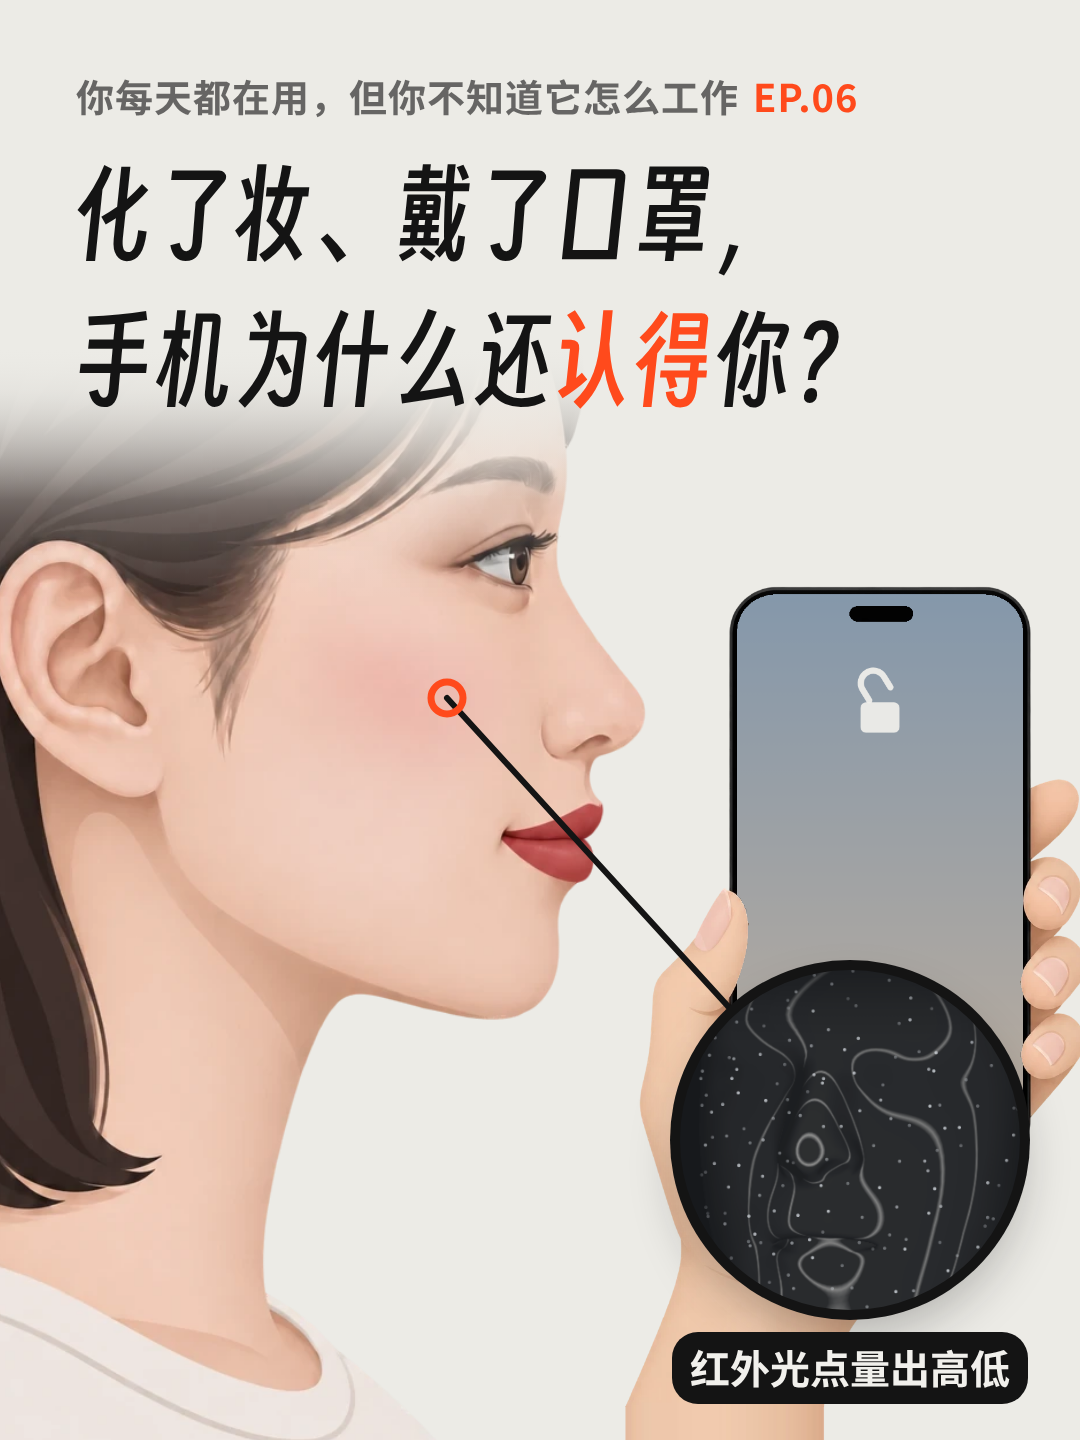
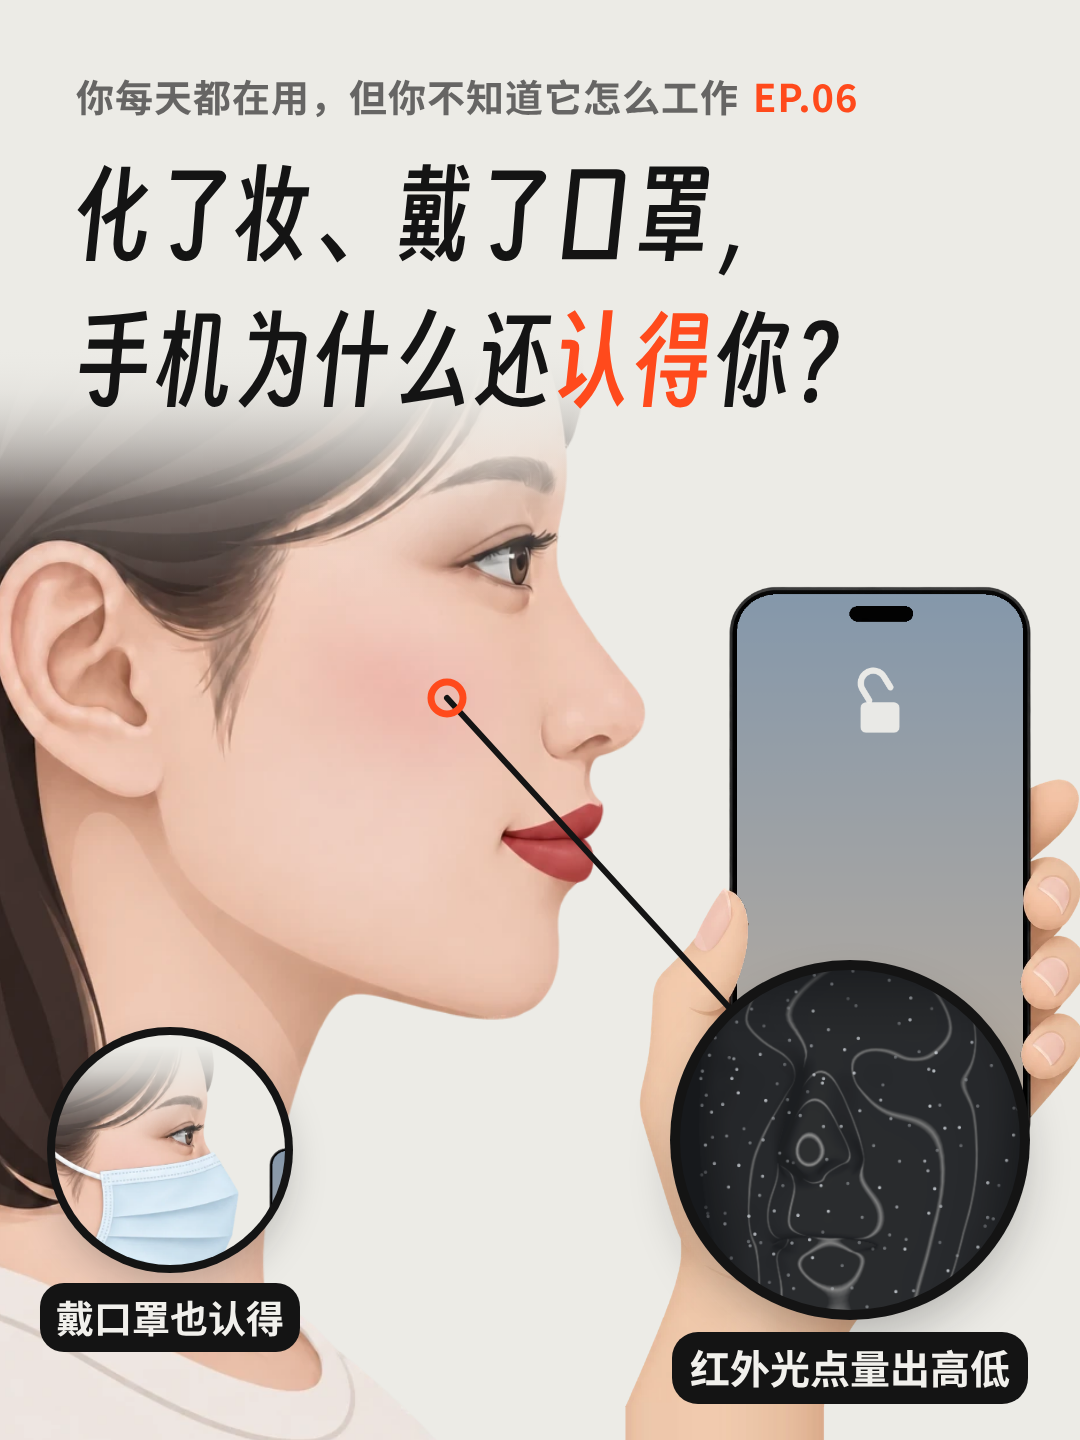
EP.06: covers with a mask inset, publish.md for v5.3
Claude-Session: https://claude.ai/code/session_017cWy2D4nN7GnkyatDVjr7d

Changed region(s): [[0.0306, 0.6875, 0.275, 0.9375]]

diff --git a/templates/weishenme/covers/ep06-douyin.html b/templates/weishenme/covers/ep06-douyin.html
@@ -13,6 +13,10 @@
     background: #17191C url("art/ep06-inset.png") no-repeat; background-size: 568.421052631579px 1010.5263157894736px; background-position: -84.21052631578947px -336.84210526315786px;
     box-shadow: 0 0 0 10px #141414, 0 24px 50px rgba(20,20,20,0.28); }
   svg { position: absolute; left: 0; top: 0; }
+  .inset2 { display: block; position: absolute; left: 70px; top: 1250px; width: 280px; height: 280px; border-radius: 50%;
+    background: #ECEBE6 url("art/ep06-mask.png") no-repeat; background-size: 504px 896px; background-position: -79.33333333333333px -233.33333333333334px;
+    box-shadow: 0 0 0 8px #141414, 0 18px 40px rgba(20,20,20,0.25); }
+  .itag2 { position: absolute; left: 210px; top: 1548px; transform: translateX(-50%); font: 700 38px "NotoSC"; color: #F1F0EC; background: #141414; padding: 6px 16px 8px; border-radius: 24px; white-space: nowrap; }
   .itag { position: absolute; left: 840px; top: 1572px; transform: translateX(-50%); font: 700 40px "NotoSC"; color: #F1F0EC; background: #141414; padding: 6px 18px 8px; border-radius: 26px; white-space: nowrap; }
   </style></head><body><div id="cv">
   <div class="hero"></div>
@@ -23,5 +27,5 @@
   <div class="ser">你每天都在用，但你不知道它怎么工作<i>EP.06</i></div>
   <div class="t" style="top:362.56px">化了妆、戴了口罩，</div>
   <div class="t" style="top:512.56px">手机为什么还<b>认得</b>你？</div>
-  <div class="inset"></div><div class="itag">红外光点量出高低</div>
+  <div class="inset"></div><div class="itag">红外光点量出高低</div><div class="inset2"></div><div class="itag2">戴口罩也认得</div>
   </div></body></html>

diff --git a/templates/weishenme/covers/ep06-xiaohongshu.html b/templates/weishenme/covers/ep06-xiaohongshu.html
@@ -13,6 +13,10 @@
     background: #17191C url("art/ep06-inset.png") no-repeat; background-size: 483.1578947368421px 858.9473684210526px; background-position: -71.57894736842105px -286.3157894736842px;
     box-shadow: 0 0 0 10px #141414, 0 24px 50px rgba(20,20,20,0.28); }
   svg { position: absolute; left: 0; top: 0; }
+  .inset2 { display: block; position: absolute; left: 55px; top: 1035px; width: 230px; height: 230px; border-radius: 50%;
+    background: #ECEBE6 url("art/ep06-mask.png") no-repeat; background-size: 414px 736px; background-position: -65.16666666666667px -191.66666666666666px;
+    box-shadow: 0 0 0 8px #141414, 0 18px 40px rgba(20,20,20,0.25); }
+  .itag2 { position: absolute; left: 170px; top: 1283px; transform: translateX(-50%); font: 700 38px "NotoSC"; color: #F1F0EC; background: #141414; padding: 6px 16px 8px; border-radius: 24px; white-space: nowrap; }
   .itag { position: absolute; left: 850px; top: 1332px; transform: translateX(-50%); font: 700 40px "NotoSC"; color: #F1F0EC; background: #141414; padding: 6px 18px 8px; border-radius: 26px; white-space: nowrap; }
   </style></head><body><div id="cv">
   <div class="hero"></div>
@@ -23,5 +27,5 @@
   <div class="ser">你每天都在用，但你不知道它怎么工作<i>EP.06</i></div>
   <div class="t" style="top:166px">化了妆、戴了口罩，</div>
   <div class="t" style="top:312px">手机为什么还<b>认得</b>你？</div>
-  <div class="inset"></div><div class="itag">红外光点量出高低</div>
+  <div class="inset"></div><div class="itag">红外光点量出高低</div><div class="inset2"></div><div class="itag2">戴口罩也认得</div>
   </div></body></html>

diff --git a/episodes/weishenme/06-renlianjiesuo/publish.md b/episodes/weishenme/06-renlianjiesuo/publish.md
@@ -1,12 +1,12 @@
-# EP.06 人脸解锁 · 发布文案
+# EP.06 人脸解锁 · 发布文案（v5.3）
 
 「你每天都在用，但你不知道它怎么工作」第 6 集。代码块里的文字可以直接复制粘贴。
 **两个平台都要勾选「内容由 AI 生成」**：片中人物是用 GPT 生成的图。
 
 ## 抖音
 
-- 视频：`ep06-renlianjiesuo.mp4`（1080×1920，53 秒；随消息发给用户，mp4 不进仓库，源文件在 `out/`）
-- 封面：`cover-douyin.png`（1080×1920）
+- 视频：`ep06-renlianjiesuo.mp4`（1080×1920，54 秒；随消息发给用户，mp4 不进仓库，源文件在 `out/`）
+- 封面：`cover-douyin.png`（1080×1920；侧脸 + 解锁的手机 + 光点深度图小圆 + 戴口罩小圆）
 
 **描述**
 
@@ -17,8 +17,8 @@
 
 ## 小红书
 
-- 视频：`ep06-renlianjiesuo-xhs.mp4`（1080×2340 全屏版；随消息发给用户，不进仓库）
-- 封面：`cover-xiaohongshu.png`（1080×1440）
+- 视频：`ep06-renlianjiesuo-xhs.mp4`（1080×2340 全屏版，54 秒；随消息发给用户，不进仓库）
+- 封面：`cover-xiaohongshu.png`（1080×1440；同上）
 
 **标题**
 
@@ -40,15 +40,15 @@
 因为它不只在「看」你，还在「量」你。下面以 iPhone 的面容 ID 为例（很多安卓手机的人脸解锁原理不同）。
 
 ① 屏幕顶上藏着一个小投影器，往你脸上打出成千上万个光点。用的是红外光，人眼看不见。
-② 旁边的红外镜头斜着看这些光点：同一个光点，落在近处和远处，在镜头里的位置不一样，离得越近挪得越多。每个点都这么算一遍，就得到你脸的高低起伏（深度图）。它还会再拍一张红外照片，两样一起拿去和你存的样子比。
+② 旁边的红外镜头斜着看这些光点：同一个光点，落在近处和远处，在镜头里的位置不一样。鼻尖离手机更近，挪得就更多。每个点都这么算一遍，就得到你脸的高低起伏（深度图）。它还会再拍一张红外照片，两样一起拿去和你存的样子比。
 ③ 化妆主要改的是颜色，口红、粉底都只是薄薄一层，脸的高低几乎没变。修容让鼻梁「看着」更高，但它量到的鼻梁高度没变。妆会让红外照片有些变化，所以浓妆偶尔会认不出，它也会慢慢适应你的新样子。
 ④ 戴上口罩，它就只看眼睛周围：眼周的特征也是你独有的。这项功能要 iPhone 12 及以后的机型、iOS 15.4 及以上，在「设置 › 面容 ID 与密码」里打开「戴口罩使用面容 ID」，眼睛不能被挡住，戴太阳镜时不能用。官方说戴口罩时安全性比看全脸低一些，也可以不开。
 
-小提示：浓妆没认出来时，马上输一次密码。如果它判断和你本人很接近，就会把这次的样子临时补进去，下次更容易认出。
+小提示：浓妆没认出来时，马上输一次密码。输完密码，它会把这次的样子补存下来，下次更容易认出。前提是这次的样子和存下的够接近；补存的数据是临时的，解锁一定次数后就会丢掉。
 
 这是「你每天都在用，但你不知道它怎么工作」第 6 集。你还想知道哪个东西是怎么工作的？评论区告诉我。
 
-画面说明：光点、深度图、红外照片均为示意；人脸网格来自 Google MediaPipe（Apache-2.0）。
+画面说明：光点、深度图、红外照片均为示意；侧视图把角度放大了，两个元件实际左右并排；人脸网格来自 Google MediaPipe（Apache-2.0）。
 
 #人脸解锁 #面容ID #FaceID #3D结构光 #iPhone #化妆 #口罩 #科普 #为什么系列
 ```

diff --git a/episodes/weishenme/06-renlianjiesuo/notes.md b/episodes/weishenme/06-renlianjiesuo/notes.md
@@ -39,3 +39,5 @@
 - 观众看 v5 的 3 条建议，用户：「1. 接受 2. 不用 3. 不删；侧视图这个画法接受」。→ v5.2：镜头里「原来的位置（空心圈）→ 现在的位置（实心点）」画成橙色箭头；前提小字维持；39 秒的问题保留；侧视图（两元件画成上下、屏幕注明）定稿。
 - v5.2：审核复核「通过」（无违规）。可选：18.75–20.75 秒整体漂移把右侧内容推近 x 960 以右（抖音右栏附近，不违反 C7）；三束光阶段墙上的淡空心点贴着左下面板。交用户定。
 - 用户：「审核提的两个点改掉，别的没问题了」——视频确认。v5.3：侧视图段（14.25–20.75）关掉横向漂移，让开右侧平台栏；三束光阶段不画墙上的空心点。之后做封面（加口罩元素）、小红书全屏版、publish.md。
+- v5.3 审核复核「通过」（可选 3 条：18.2–18.75 秒墙上空心点半出画、「参考面」贴左上小签、光环整圈扩散；用户已确认视频，不再改，交付时附上）。
+- 封面（按 2026-11-11 规则，视频确认后才做）：主图换成 1.9 秒的侧脸 + 解锁的手机，右下光点深度图小圆「红外光点量出高低」，左下加戴口罩小圆「戴口罩也认得」（口罩元素）。小红书全屏版、publish.md 同步 v5.3。
